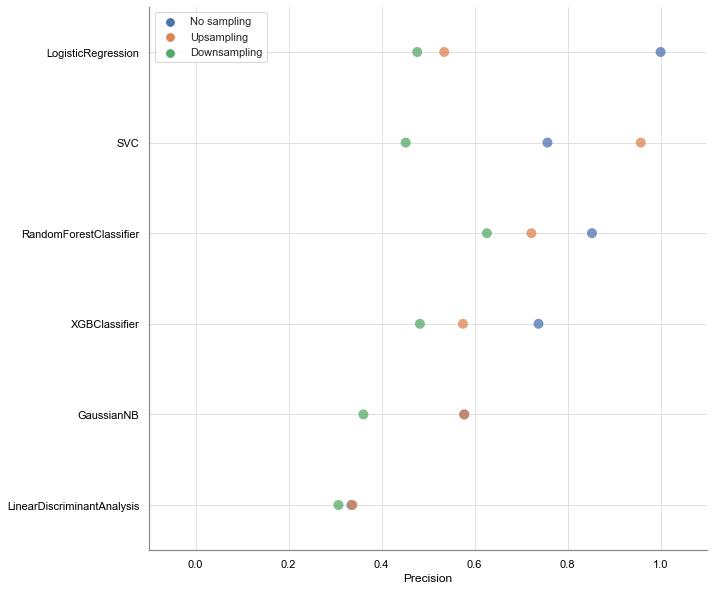
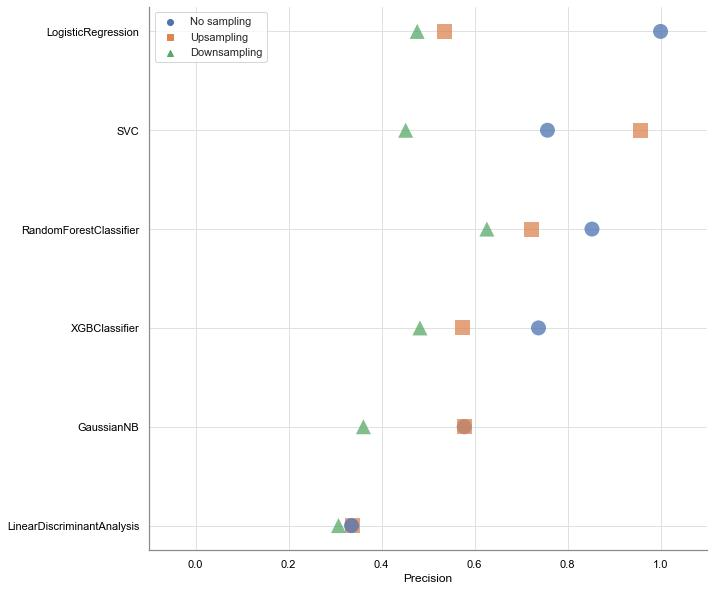
changed plot from stripplot to scatterplot

diff --git a/code/model_comparison.py b/code/model_comparison.py
@@ -26,8 +26,11 @@ df = pd.concat([df_no_sampling, df_upsampling, df_downsampling],
 for idx, val in enumerate(df.columns[2:]):
     sorted_index_descent = df.groupby(['Model']).max().sort_values(by= val,ascending=False).index
     
+    df = df.sort_values(by=val, ascending=False)
+    
     plt.figure(figsize=(10, 10))
-    ax = sns.stripplot(y = df['Model'], x = df[val], hue = df['Sampling'], jitter=False, s=10, order = sorted_index_descent, alpha=0.75)
+    # ax = sns.stripplot(y = df['Model'], x = df[val], hue = df['Sampling'], jitter=0.055, s=15, order = sorted_index_descent, alpha=0.75)
+    ax = sns.scatterplot(data = df, y = 'Model', x = val, hue = 'Sampling', style='Sampling', s=225, linewidth=0, alpha=0.75, markers=('o',',','^'))
     ax.set_ylabel('')
     ax.set_xlabel(val)
     ax.set_xlim([-.1,1.1])
